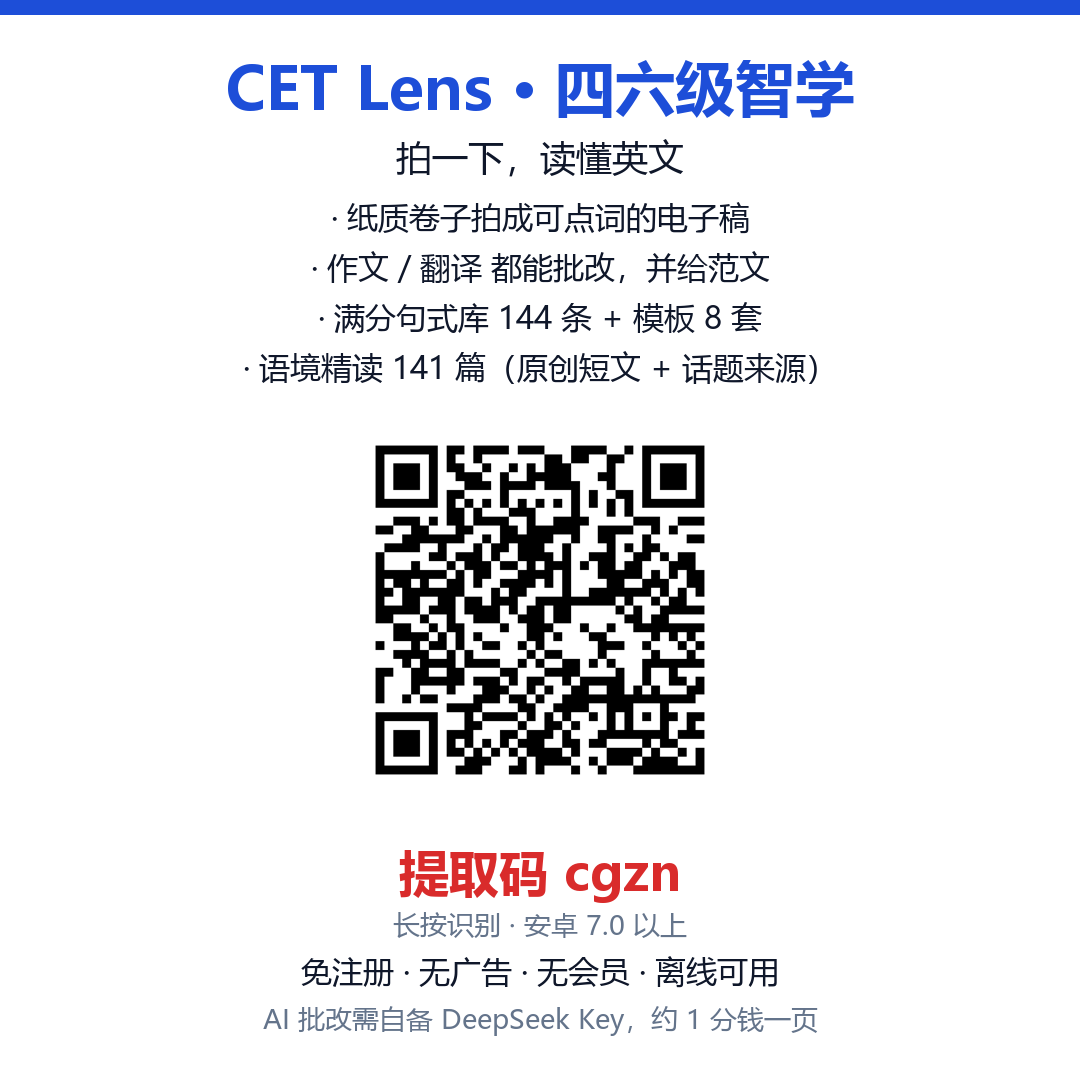
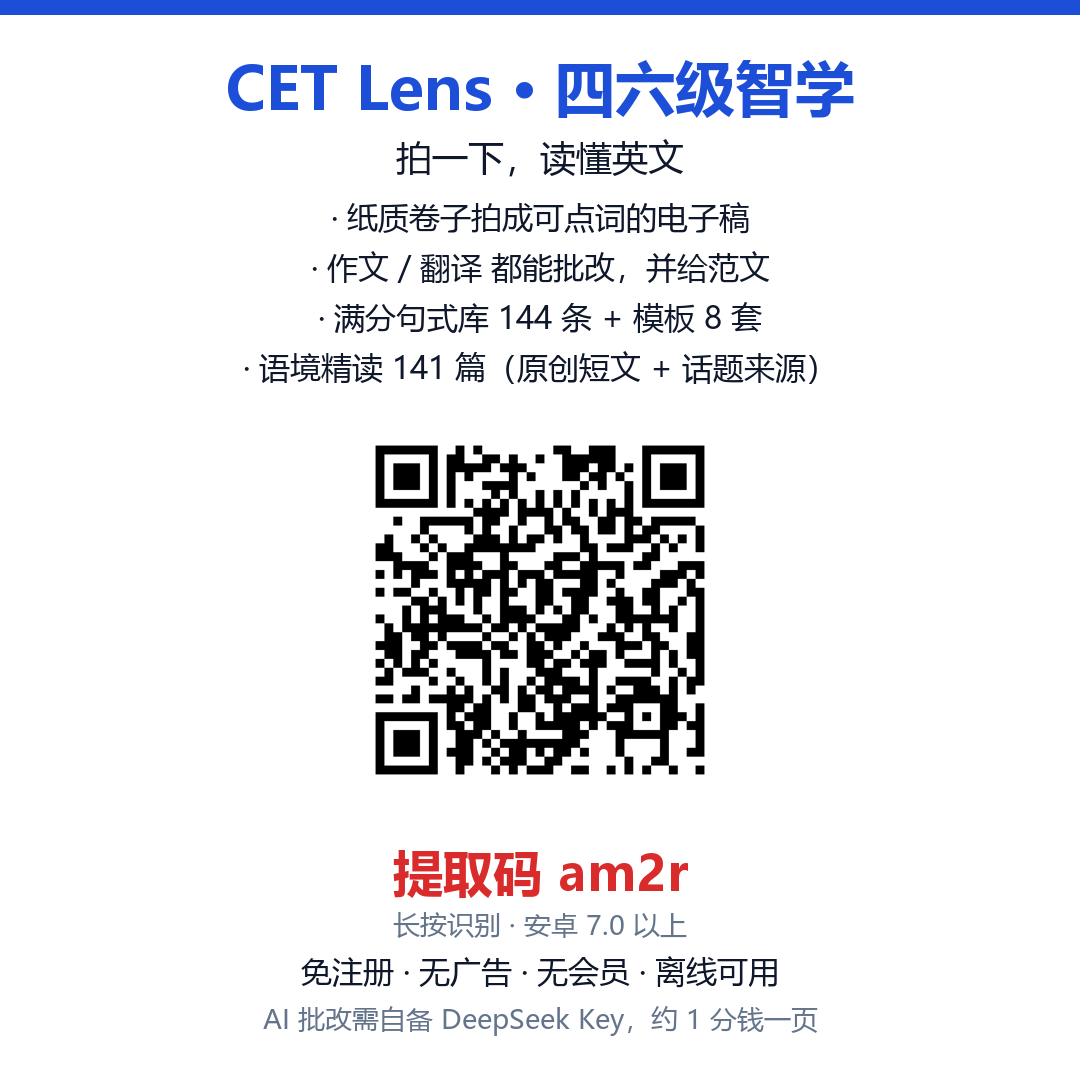
蓝奏云换包 1.2.2：更新链接与提取码 am2r，重做二维码和推广图

Changed region(s): [[0.3361, 0.3972, 0.6722, 0.7333], [0.3667, 0.7639, 0.6417, 0.8556]]

diff --git a/docs/index.html b/docs/index.html
@@ -88,8 +88,8 @@
       <img src="qr-lanzou.png" alt="蓝奏云二维码" width="92" height="92" style="border-radius:8px;flex:0 0 auto">
       <div>
         <b>蓝奏云</b>
-        <p style="margin-top:4px">扫码或点链接下载，<b>提取码 cgzn</b></p>
-        <p style="margin-top:6px"><a href="https://wwazc.lanzoum.com/iamxM4g1rd4b" style="color:#2563eb">wwazc.lanzoum.com/iamxM4g1rd4b</a></p>
+        <p style="margin-top:4px">扫码或点链接下载，<b>提取码 am2r</b></p>
+        <p style="margin-top:6px"><a href="https://wwazc.lanzoum.com/iq6664g1zgeh" style="color:#2563eb">wwazc.lanzoum.com/iq6664g1zgeh</a></p>
       </div>
     </div>
     <div class="card">
